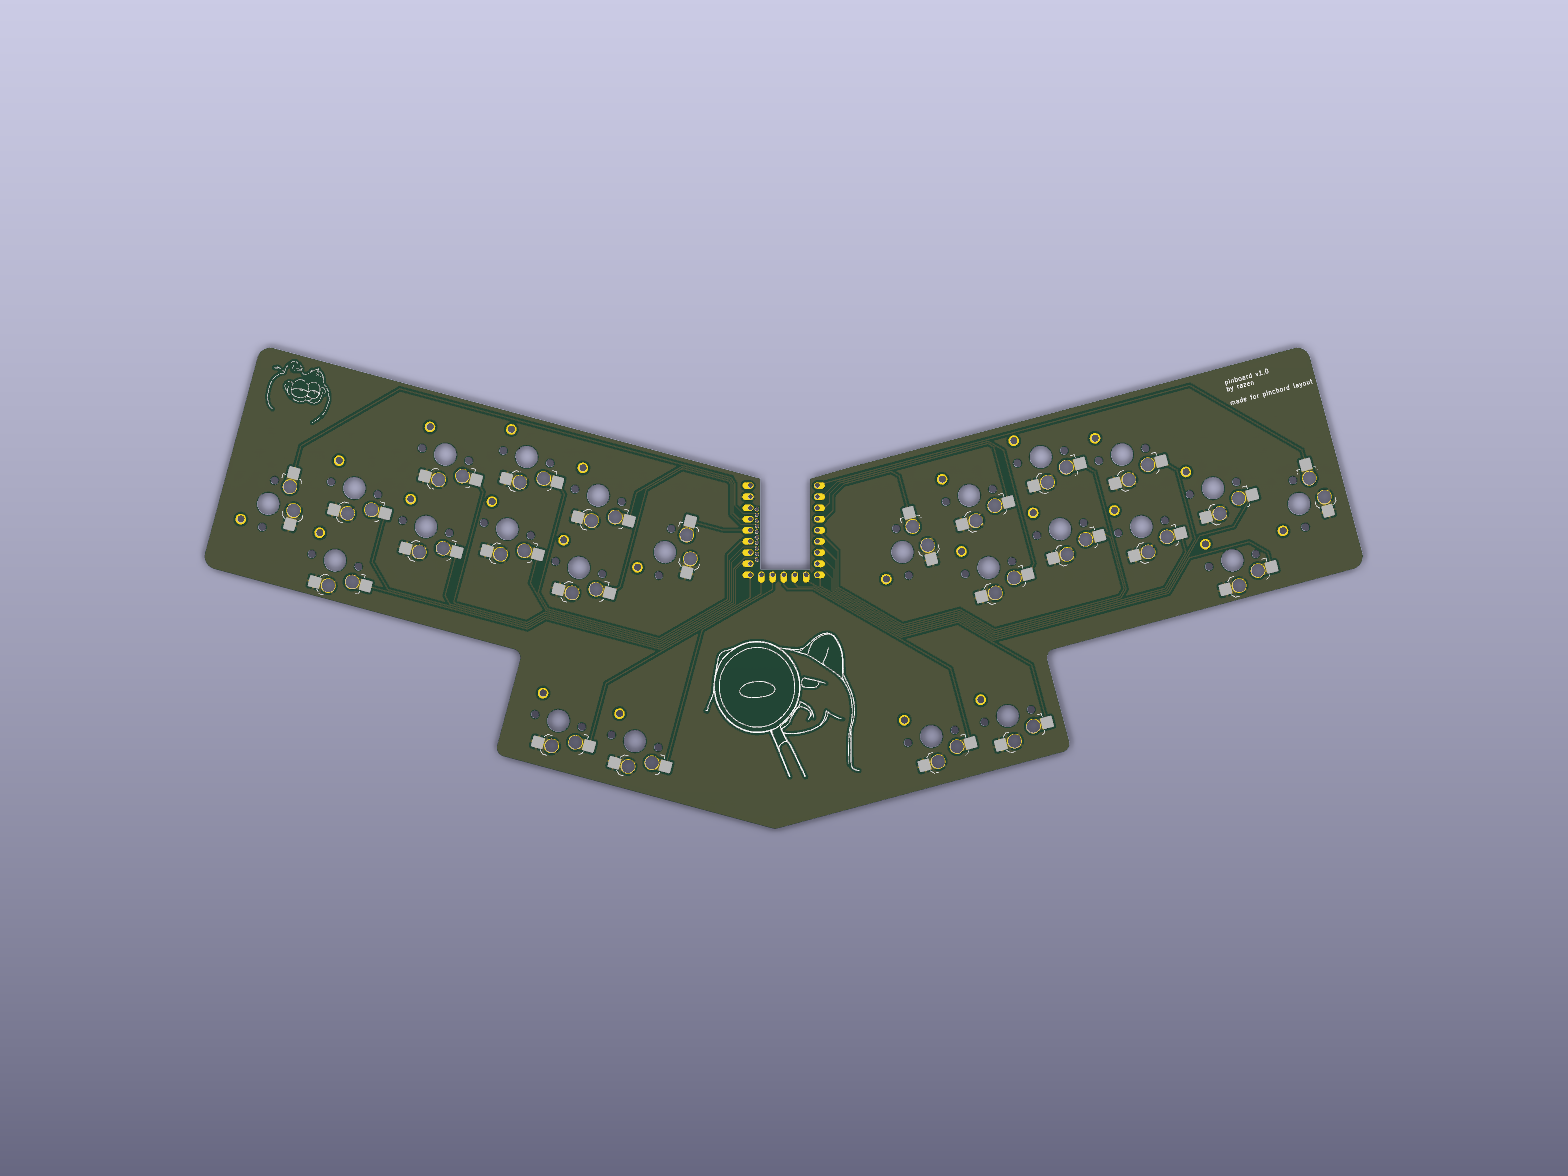
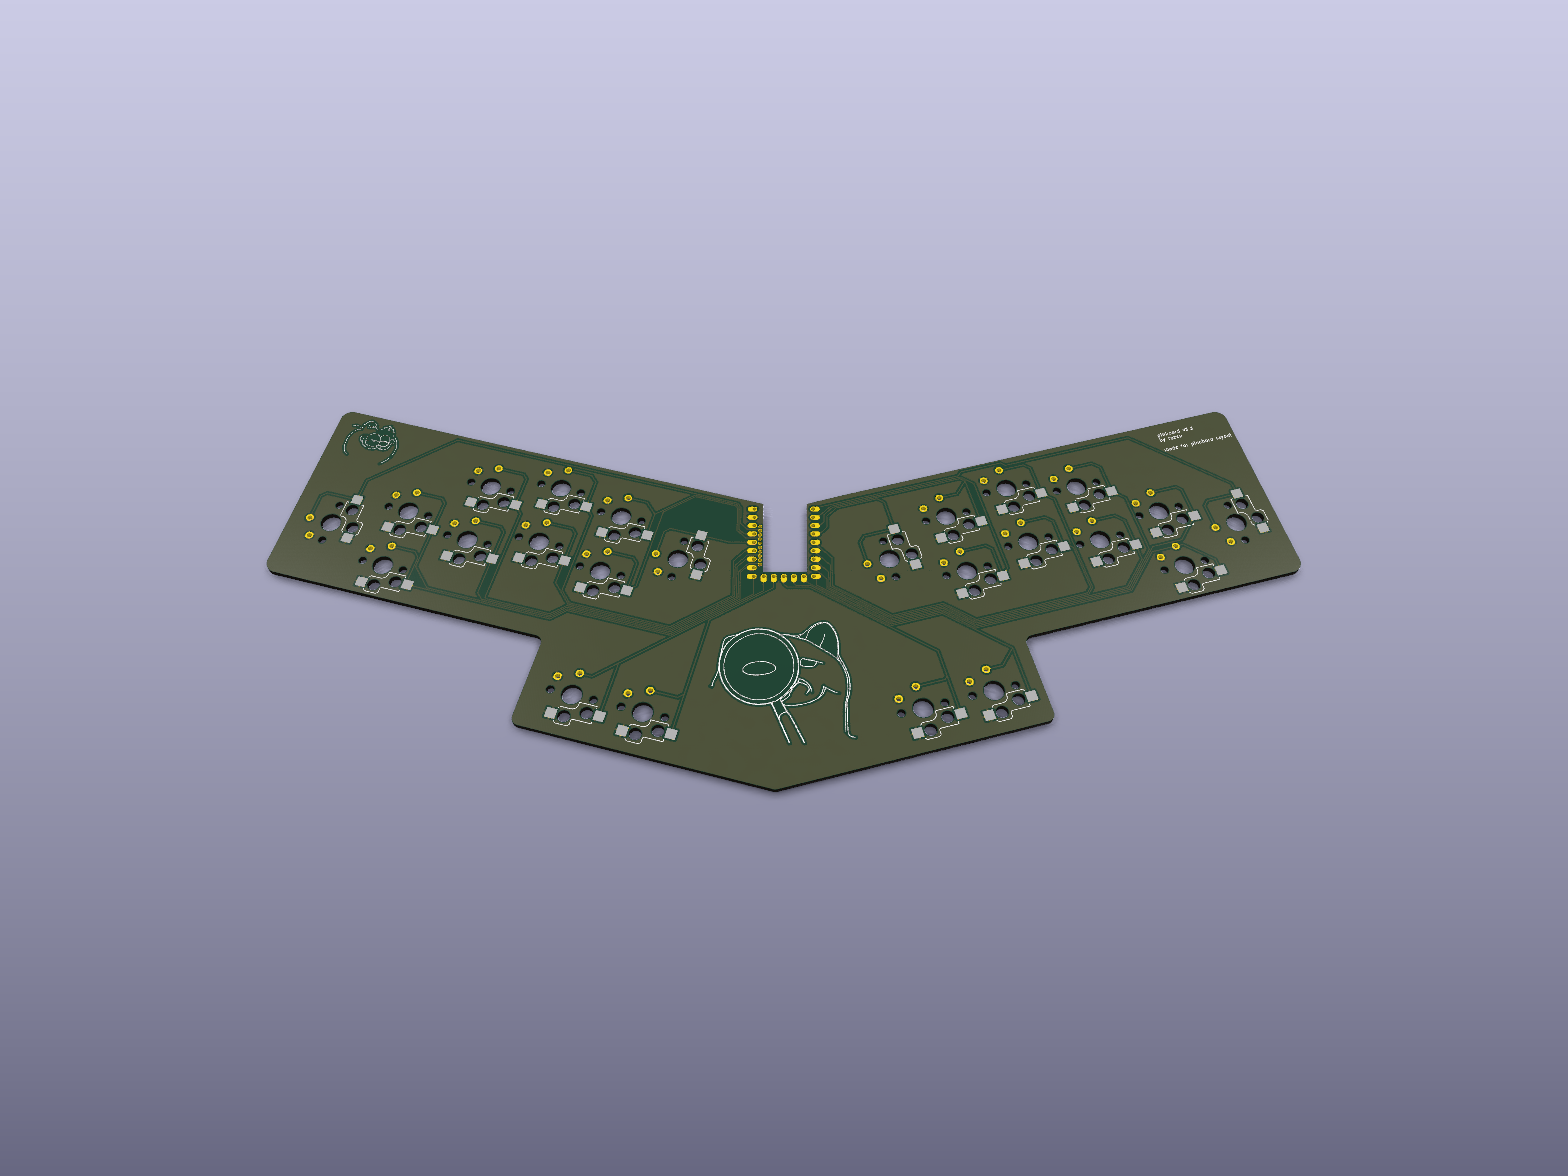
update preview image and readme

Changed region(s): [[0.125, 0.2755, 0.875, 0.7041]]

diff --git a/README.md b/README.md
@@ -8,8 +8,7 @@ Pinchord is a chording system where you press a few keys at the same time to spe
 
 ## Specs
 
-- Support for both Kailh Choc v1 and v2 switches
-- Current version is hotswap only
+- Support for both Kailh Choc v1 and v2 switches, with both hand-soldering and hotswap sockets supported
 - Cheap RP2040-Zero MCU
 - Direct wiring (no diodes) with the help of using RP2040-Zero's pad pins on the back of the board
 - Unibody PCB